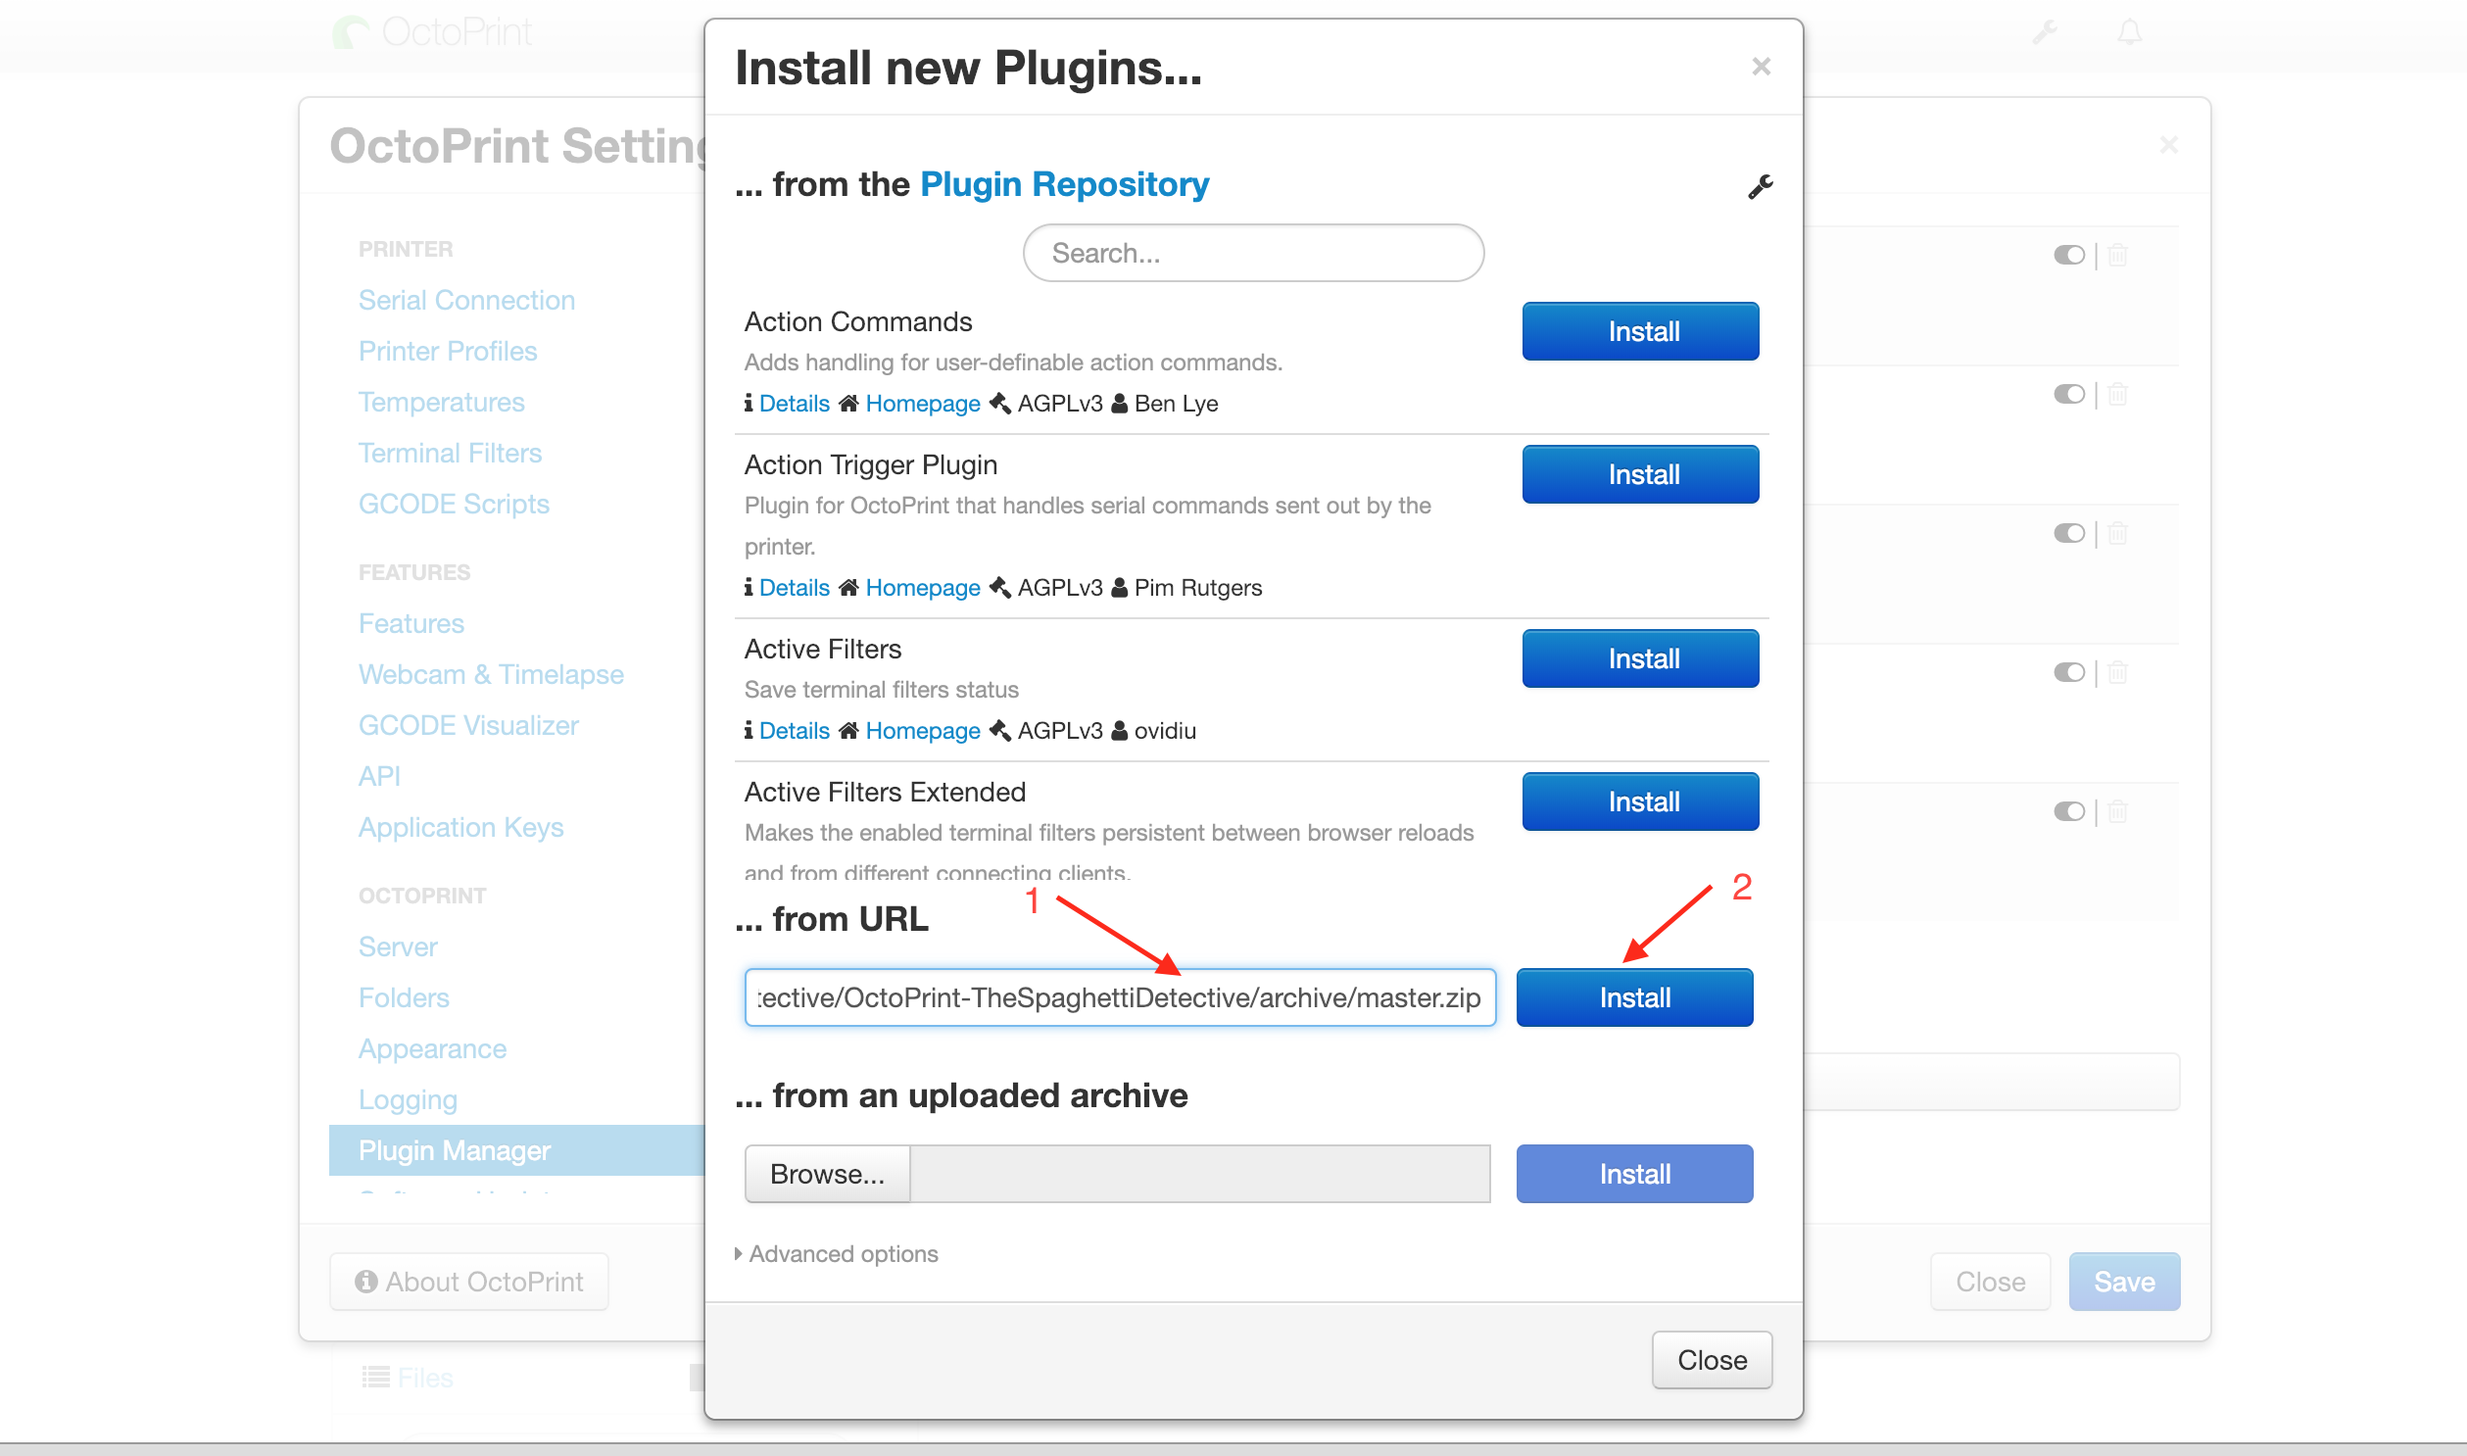
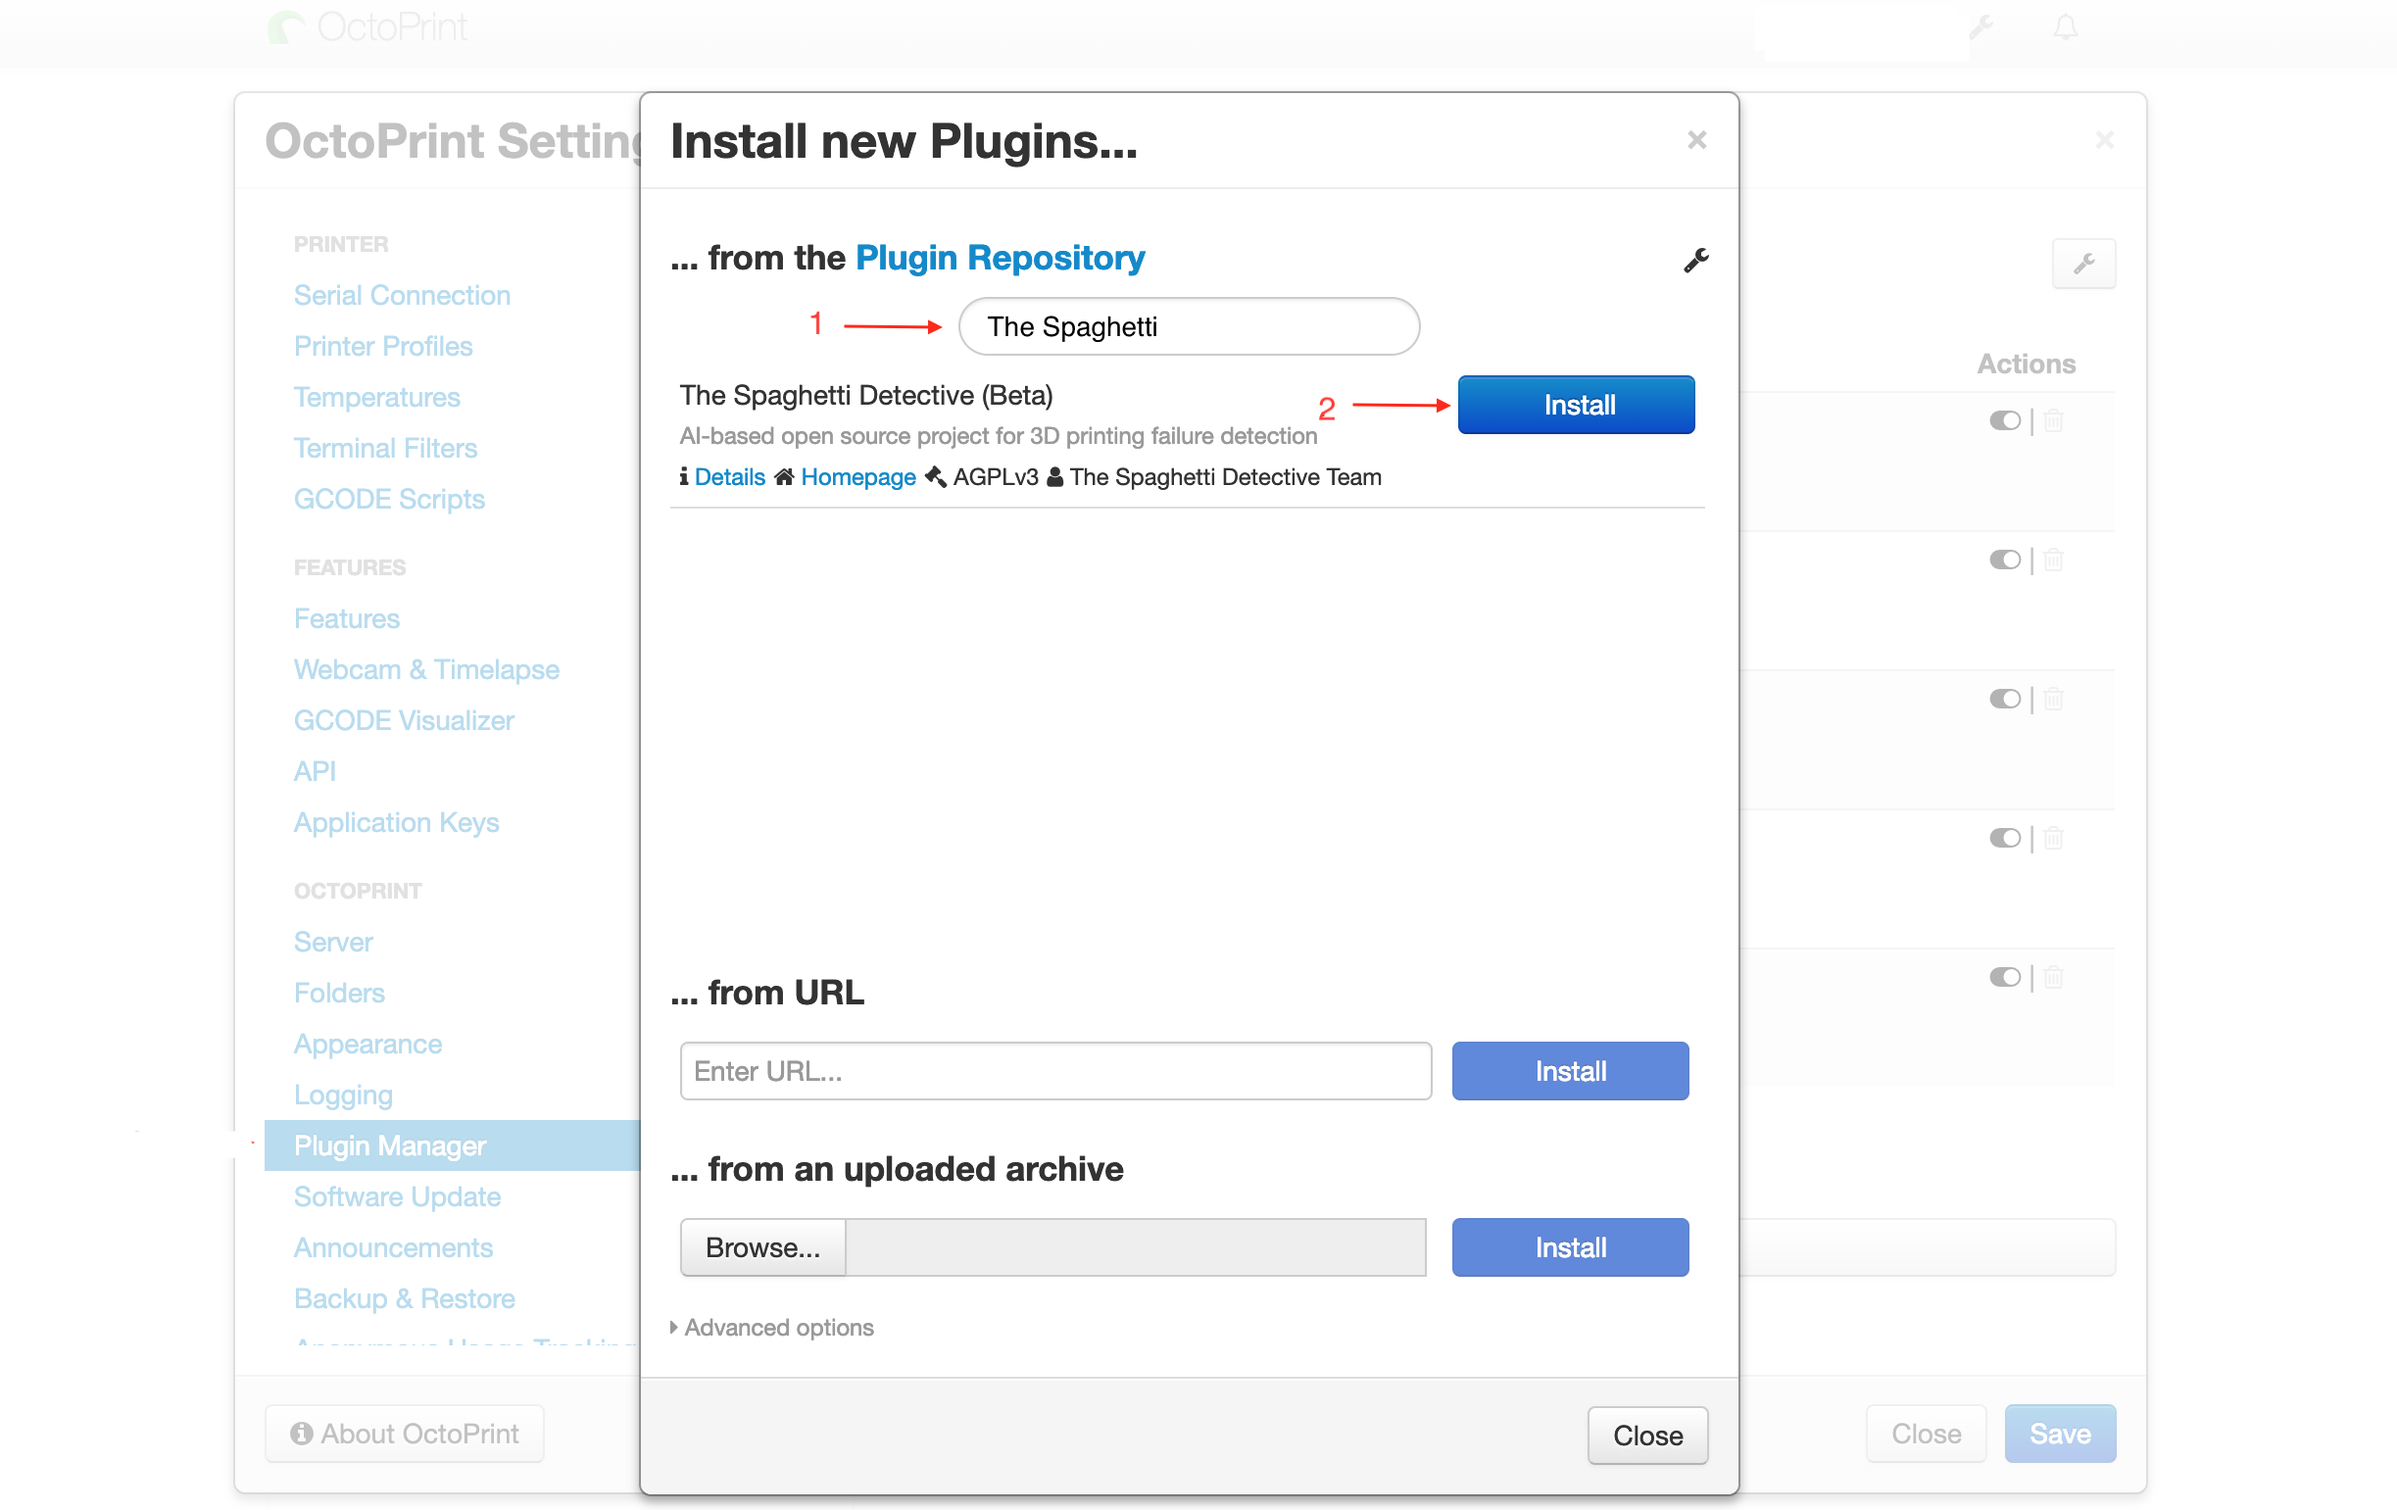
updated screenshots to install plugin

Changed region(s): [[0.0, 0.031, 1.0, 1.0], [0.1243, 0.9287, 0.2175, 0.9596], [0.8389, 0.2167, 0.87, 0.2476]]

diff --git a/web/app/static/css/app.css b/web/app/static/css/app.css
@@ -264,12 +264,13 @@ footer {
 #smartwizard .step-content {
   min-height: 24em;
   background: none; }
+  #smartwizard .step-content.tab-pane {
+    padding-top: 1.5rem; }
   #smartwizard .step-content.form-step {
     display: flex;
     flex-flow: column; }
     #smartwizard .step-content.form-step .form-label {
-      font-size: 1.1rem;
-      margin-top: 1.5rem; }
+      font-size: 1.1rem; }
     #smartwizard .step-content.form-step input[type="checkbox"] {
       margin-right: 0.5rem; }
   #smartwizard .step-content.token-step #smartwizard .step-content.plugin-step {
@@ -392,4 +393,4 @@ footer {
     .printer-auth-token .token .input-group {
       margin-top: 1rem; }
 
[2 lines of base64/hex data omitted]

diff --git a/web/app/templates/printer_wizard.html b/web/app/templates/printer_wizard.html
@@ -74,7 +74,8 @@
           </form>
         </div>
         <div id="step-2" class="plugin-step">
-          If you have not installed The Spaghetti Detective plugin for OctoPrint, please do so before clicking "Next".
+          If you have not installed The Spaghetti Detective plugin (Beta) for OctoPrint, please do so before clicking "Next".
+          <img src="{% static 'img/install_plugin.png' %}" style="width: 100%;" />
           <div>For details please head to the <a href="https://www.thespaghettidetective.com/guide.html">Setup
               Guide</a>.</div>
         </div>

diff --git a/web/app/static/scss/main.scss b/web/app/static/scss/main.scss
@@ -263,13 +263,16 @@ footer {
     min-height: 24em;
     background: none;
 
+    &.tab-pane {
+      padding-top: 1.5rem;
+    }
+
     &.form-step {
       display: flex;
       flex-flow: column;
 
       .form-label {
         font-size: 1.1rem;
-        margin-top: 1.5rem;
       }
 
       input[type="checkbox"] {
